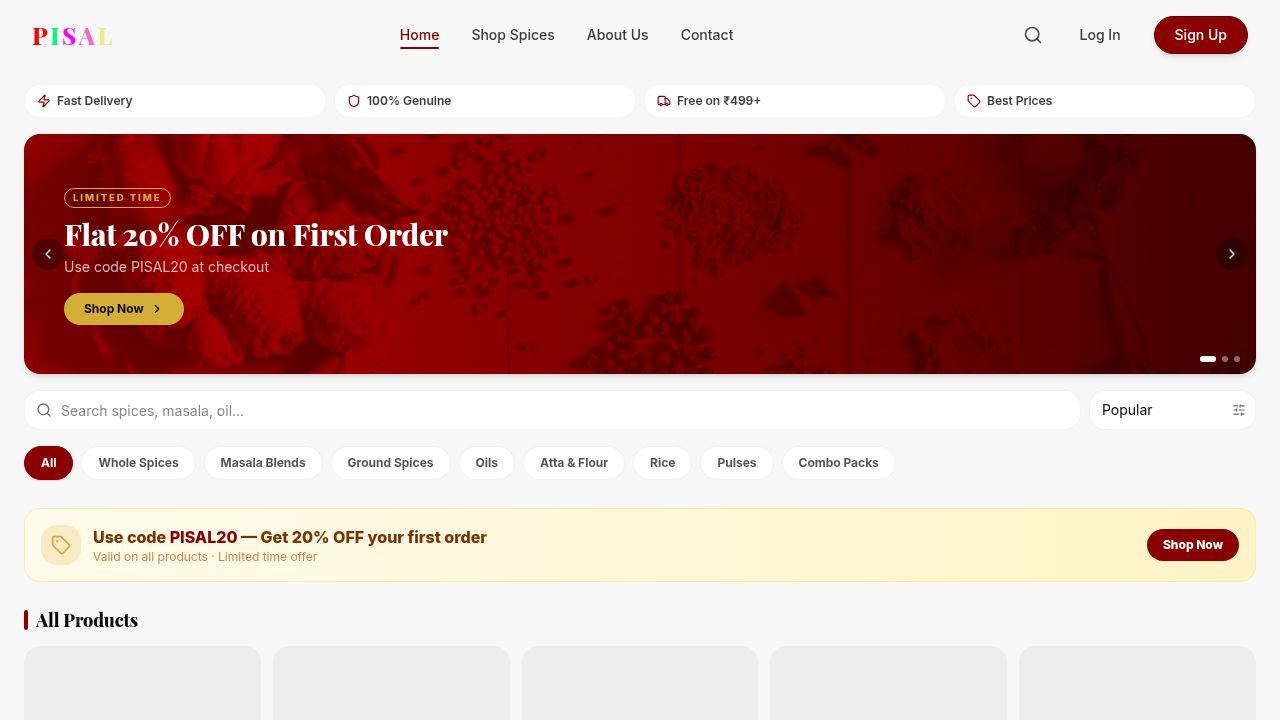
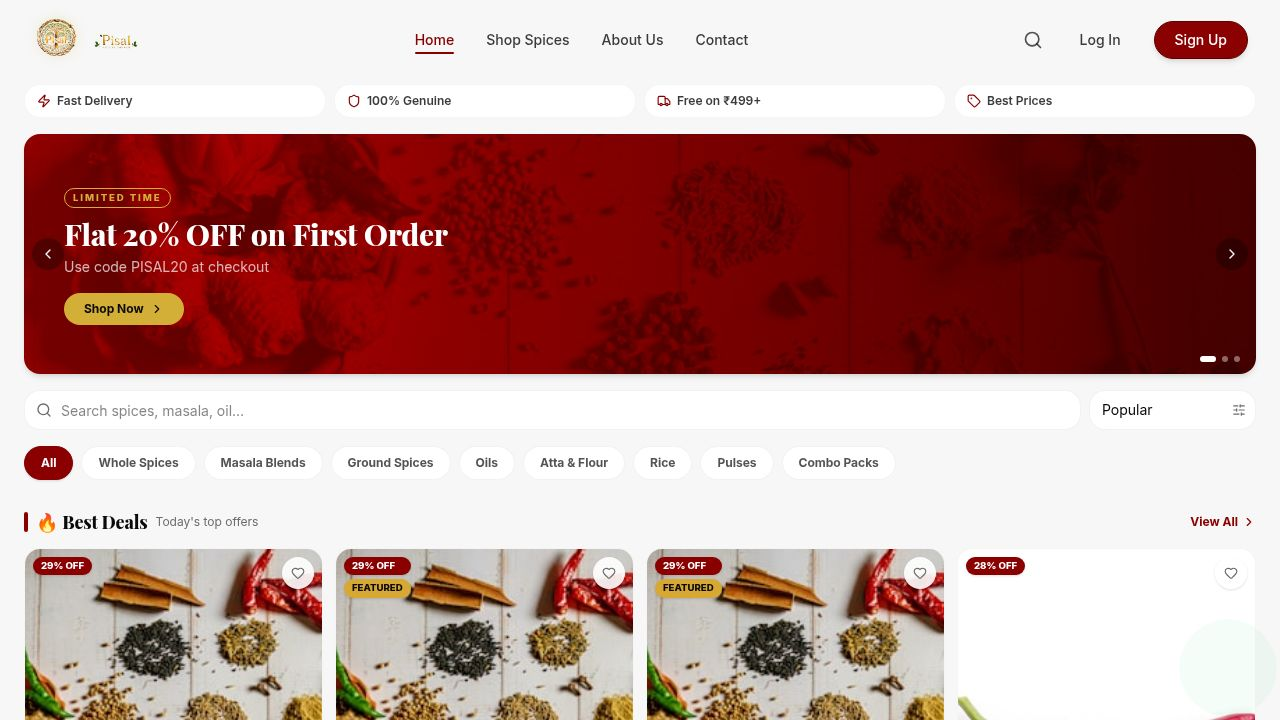
Update API credentials and add database schema
Update Supabase URL and anon key in environment variables and client-side configurations, and add a new SQL schema file for database tables.

Replit-Commit-Author: Agent
Replit-Commit-Session-Id: fc0ec7d1-f1de-4caf-a764-6b1dca8113c2
Replit-Commit-Checkpoint-Type: full_checkpoint
Replit-Commit-Event-Id: 209e79d4-261b-4cf5-9b4c-f3ee85c0d34a
Replit-Commit-Screenshot-Url: https://storage.googleapis.com/screenshot-production-us-central1/98e3acad-d7e3-4f01-8cf5-98b0798b859f/fc0ec7d1-f1de-4caf-a764-6b1dca8113c2/uDdZmZX
Replit-Helium-Checkpoint-Created: true

diff --git a/artifacts/pisal-store/src/lib/supabase.ts b/artifacts/pisal-store/src/lib/supabase.ts
@@ -1,6 +1,6 @@
 import { createClient } from '@supabase/supabase-js'
 
-const supabaseUrl = import.meta.env.VITE_SUPABASE_URL || 'https://aafgptxzavrpraehaexa.supabase.co'
-const supabaseAnonKey = import.meta.env.VITE_SUPABASE_ANON_KEY || 'sb_publishable_kRWphSBHk0VILRq0ZlIONA_Uu2ML9F6_fXN23N'
+const supabaseUrl = import.meta.env.VITE_SUPABASE_URL || 'https://gytgnnjxlmvgrltumwwj.supabase.co'
+const supabaseAnonKey = import.meta.env.VITE_SUPABASE_ANON_KEY || 'sb_publishable_8lrQR9HyTKlbRITYYMiRRg_XXzzYGJA'
 
 export const supabase = createClient(supabaseUrl, supabaseAnonKey)

diff --git a/artifacts/pisal-store/src/lib/api-client.ts b/artifacts/pisal-store/src/lib/api-client.ts
@@ -1,7 +1,7 @@
 import { supabase } from './supabase';
 import { SAMPLE_PRODUCTS } from './sample-products';
 
-const SUPABASE_URL = import.meta.env.VITE_SUPABASE_URL || 'https://aafgptxzavrpraehaexa.supabase.co';
+const SUPABASE_URL = import.meta.env.VITE_SUPABASE_URL || 'https://gytgnnjxlmvgrltumwwj.supabase.co';
 
 let _supabaseOk: boolean | null = null;
 